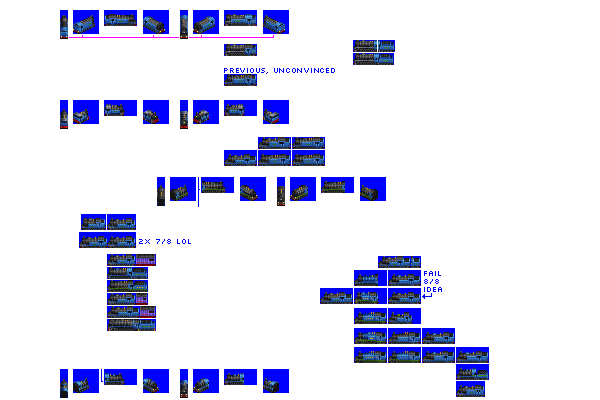
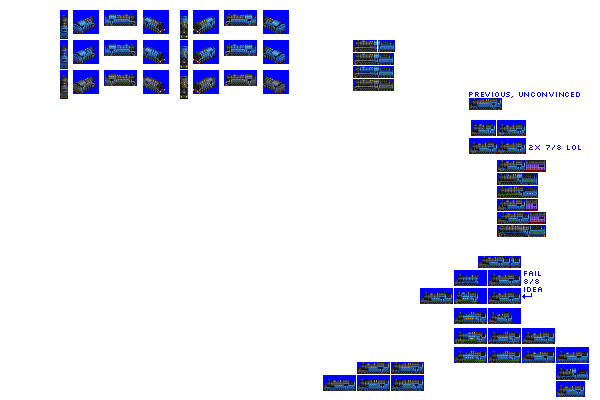
Change: sprites complete on Celt

diff --git a/src/vehicles/pony/celt.py b/src/vehicles/pony/celt.py
@@ -16,8 +16,8 @@ def main(roster_id, **kwargs):
         random_reverse=True,
         gen=3,
         # note that livery names are metadata only and can repeat for different spriterows
-        # additional_liveries=["FREIGHT_BLACK"],
-        sprites_complete=False,
+        additional_liveries=["SWOOSH", "FREIGHT_BLACK"],
+        sprites_complete=True,
     )
 
     consist.add_unit(type=SteamEngineUnit, weight=90, vehicle_length=8, spriterow_num=0)
@@ -25,6 +25,6 @@ def main(roster_id, **kwargs):
     consist.description = (
         """Celt, boyo, she's like a choir in the valleys - powerful, resonant, hefty."""
     )
-    consist.foamer_facts = """GWR 7200 Class, LNER Class S1, LNER Class T1"""
+    consist.foamer_facts = """'Austerity' locomotives, Indian Railways WT Class"""
 
     return consist
